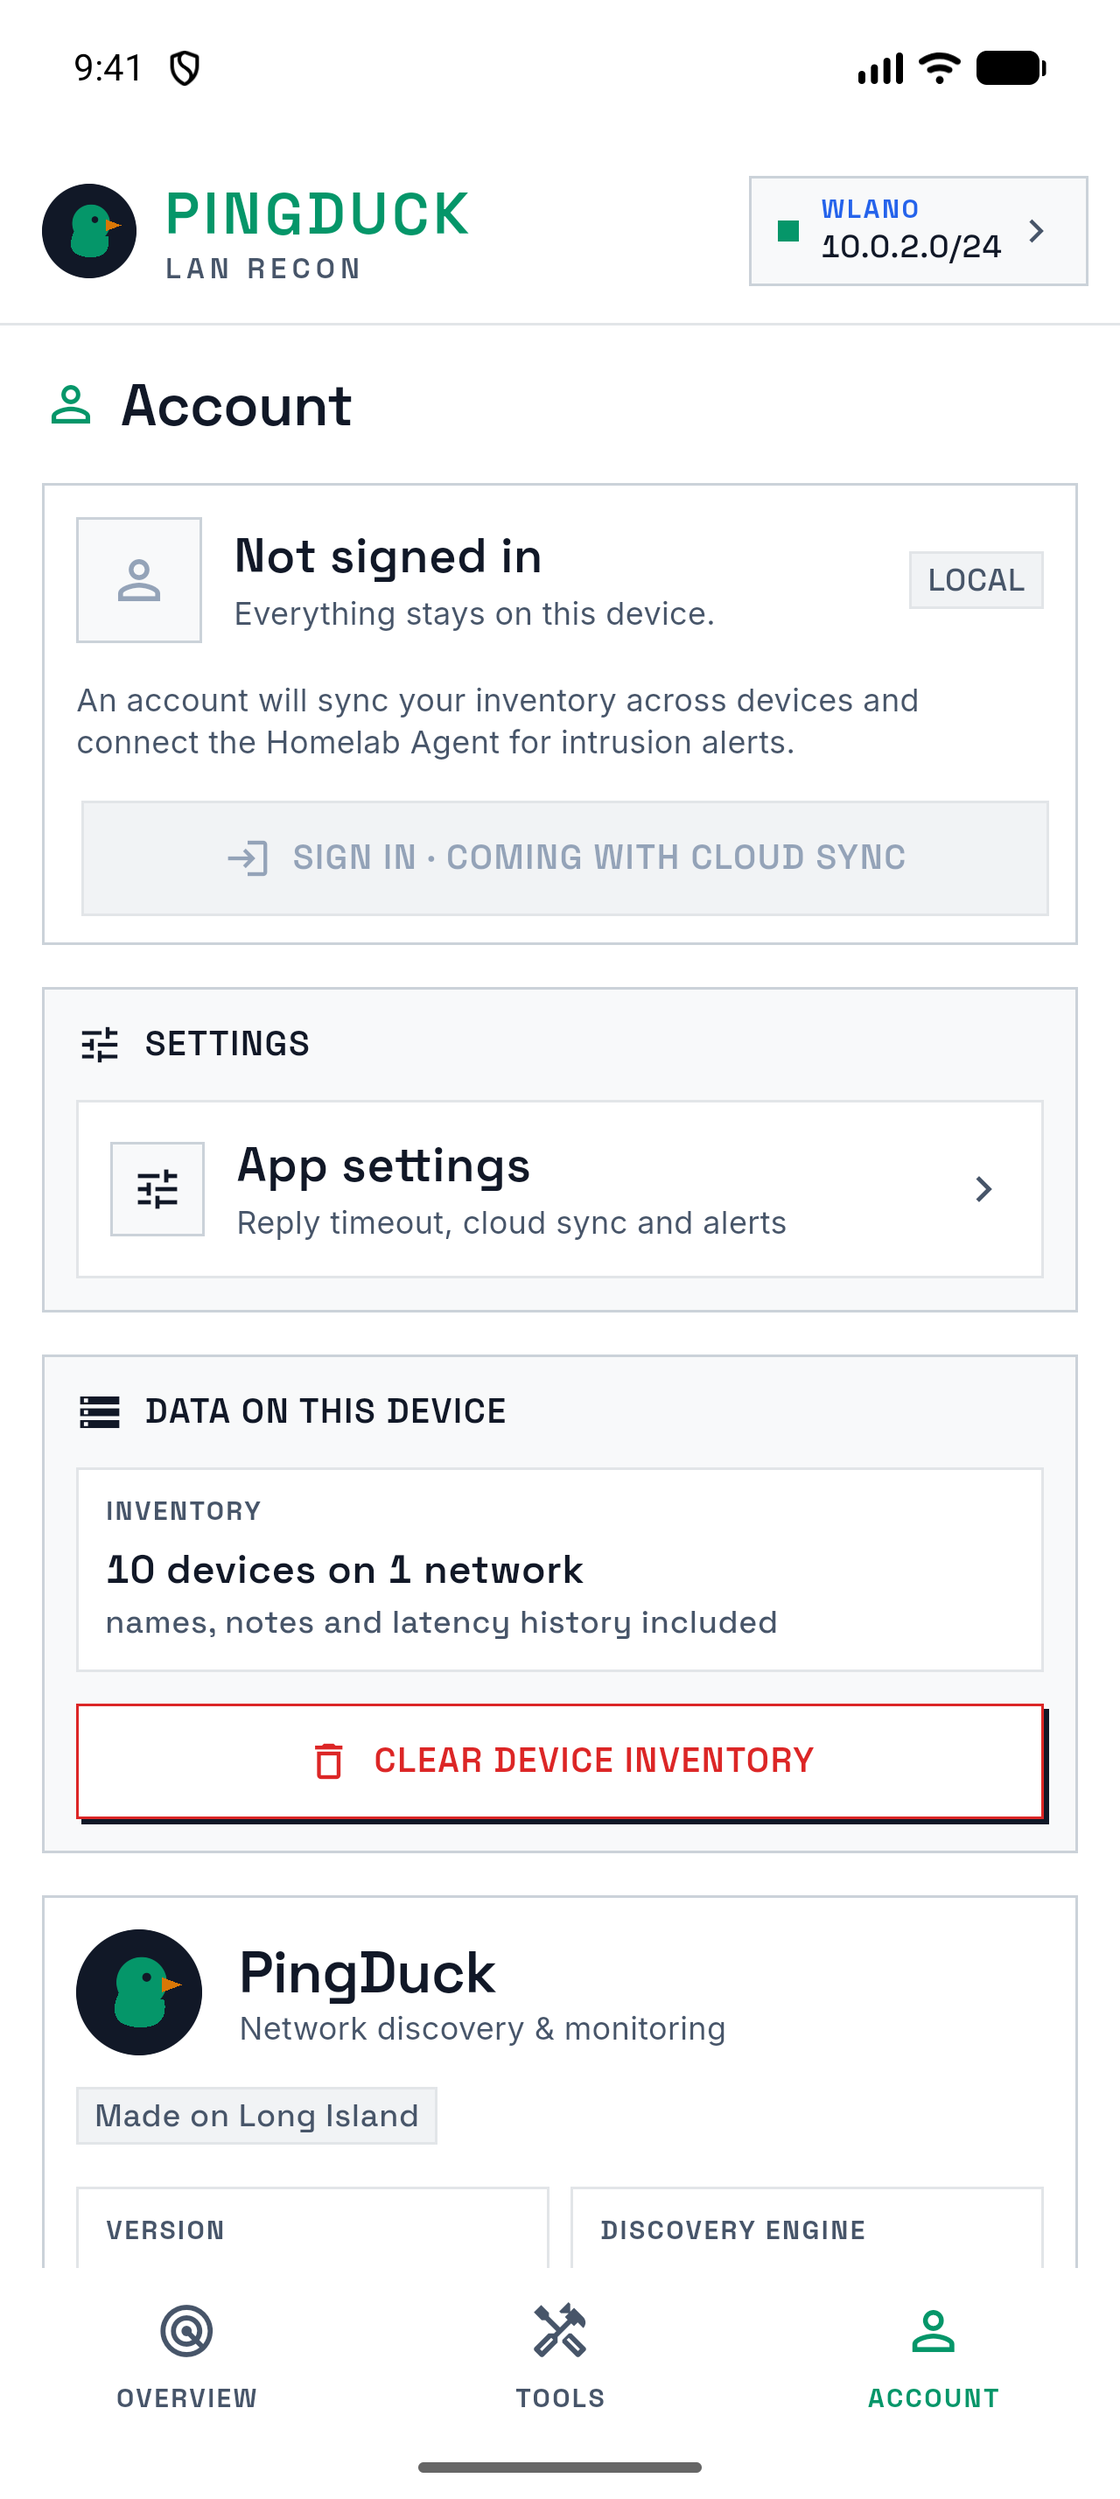
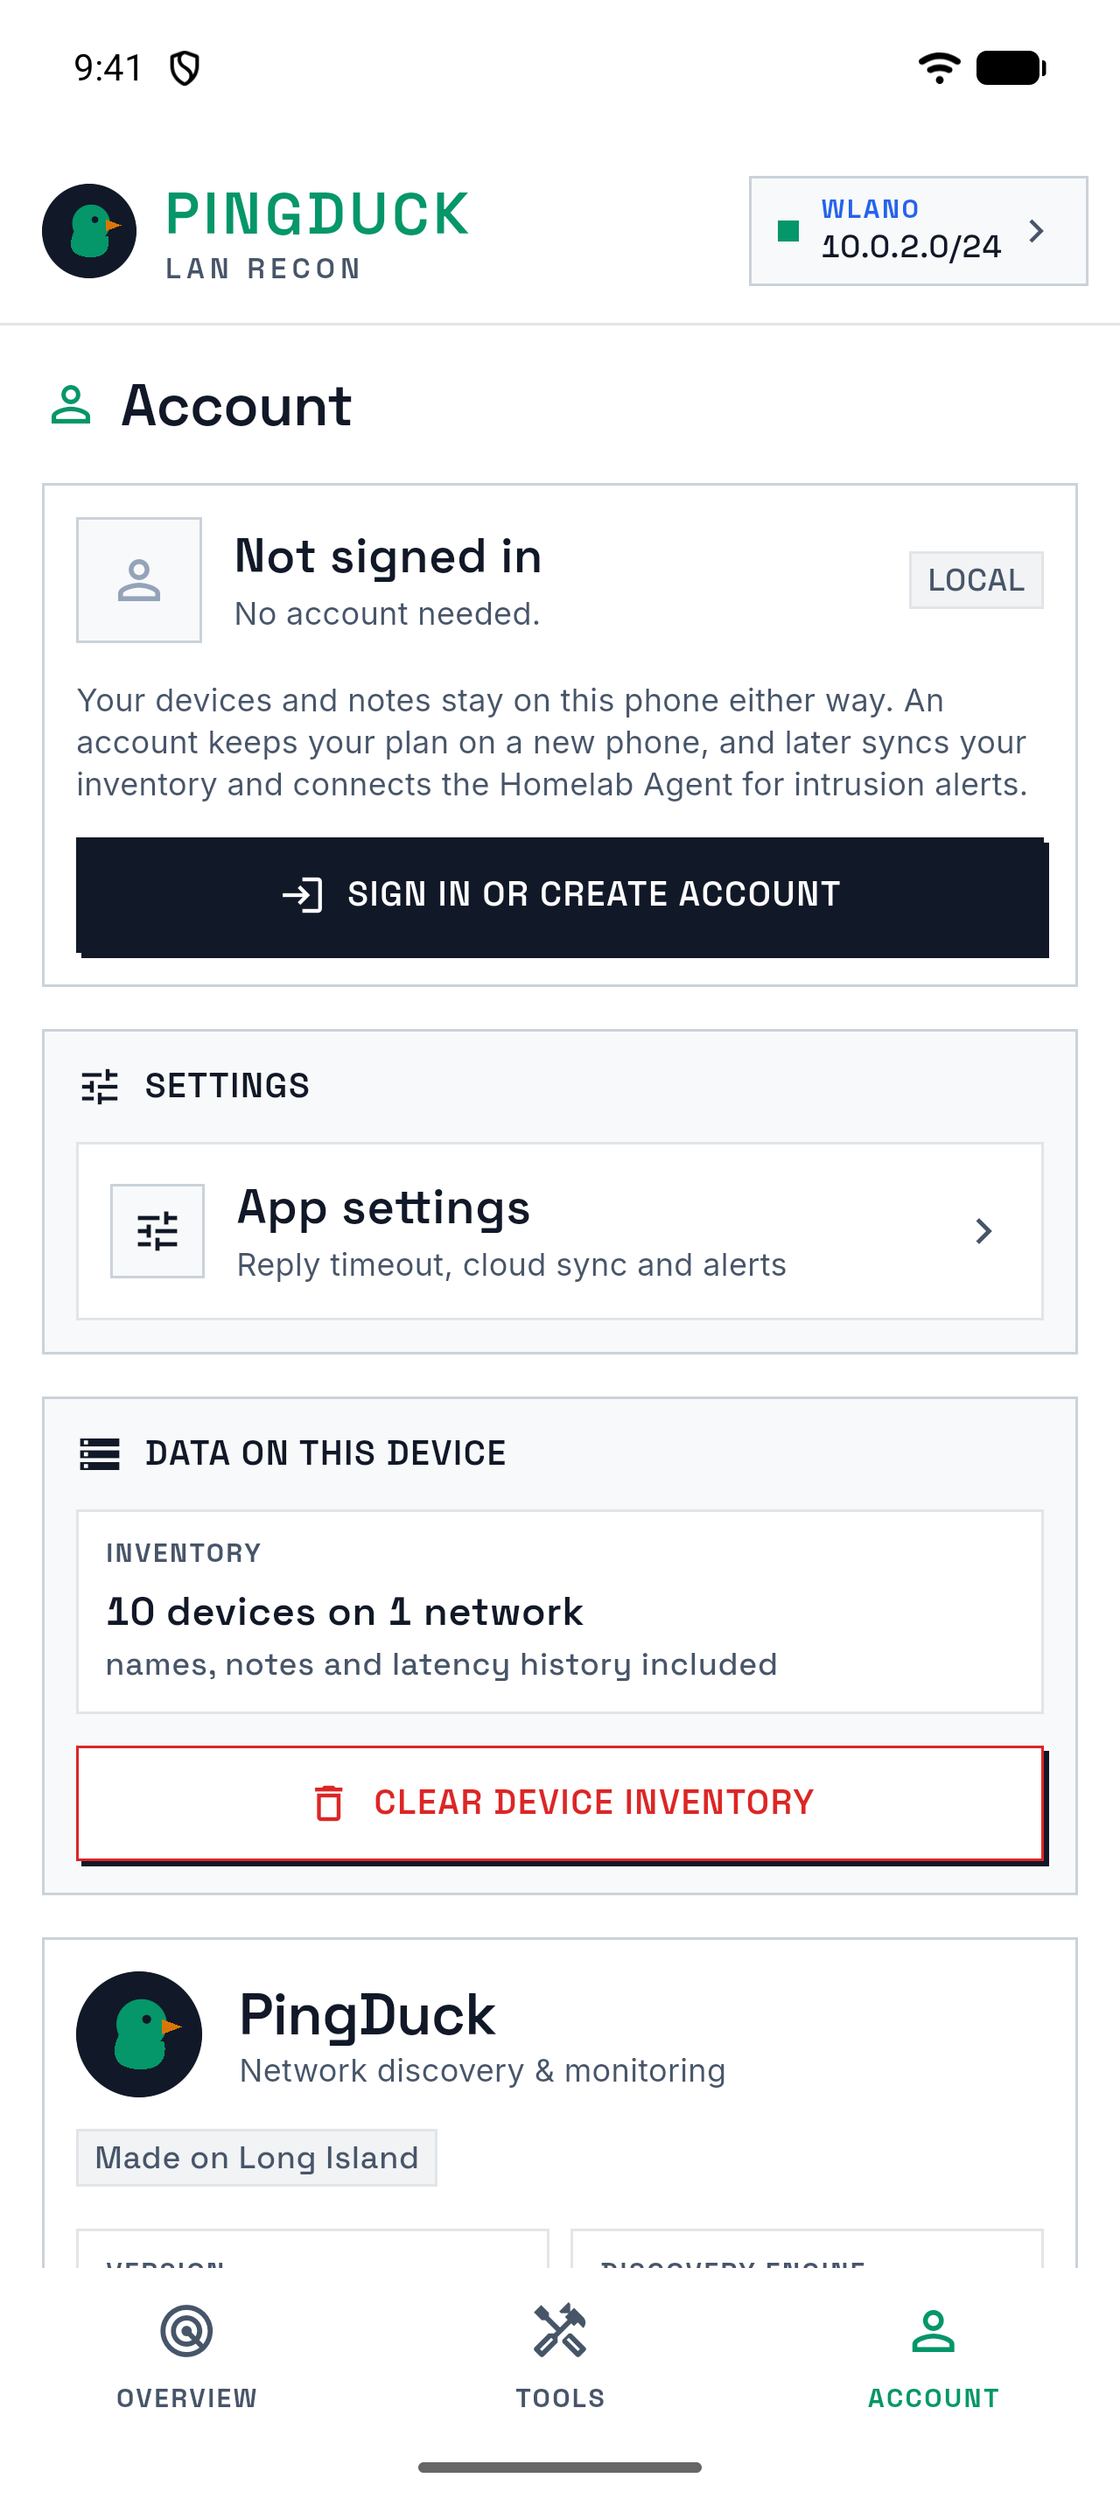
Optional accounts: update copy and privacy policy
The app now has optional email and password accounts, so drop the "no
account" claims: no sign-up is needed and the device list stays on the
phone. The privacy policy now covers the anonymous scan-count ID, the
optional email account, the providers (Supabase, Resend) and in-app
account deletion. The FAQ adds "Do I need an account?" and the free
plan's 3 scans a day. New Account tab screenshot.

diff --git a/src/app/privacy/page.tsx b/src/app/privacy/page.tsx
@@ -4,7 +4,7 @@ import { site } from "@/lib/site";
 
 export const metadata: Metadata = {
   title: "Privacy Policy",
-  description: "How the PingDuck app handles your data: no account, no analytics, everything stored on your device.",
+  description: "How the PingDuck app handles your data: no sign-up needed, no analytics, your device list stays on your phone.",
 };
 
 export default function PrivacyPage() {
@@ -16,10 +16,11 @@ export default function PrivacyPage() {
       <article className="prose-legal mx-auto max-w-3xl px-4 py-12 sm:px-6">
         <div className="mb-8 border border-live-border bg-live-fill p-5">
           <p className="!mb-0 !text-ink">
-            <strong>The short version:</strong> PingDuck does not collect, sell or share your
-            personal data. There is no account, no analytics, no advertising and no tracking.
-            Everything the app learns about your network is stored on your device, and you can
-            delete it at any time.
+            <strong>The short version:</strong> Everything the app learns about your network
+            stays on your device, and you can delete it at any time. You don&rsquo;t need an
+            account: the app uses a random anonymous ID only to count scans for the free plan.
+            If you choose to sign in, we also store your email address. There are no
+            analytics, no advertising and no tracking, and we never sell your data.
           </p>
         </div>
 
@@ -31,14 +32,67 @@ export default function PrivacyPage() {
 
         <h2>1. Information we collect</h2>
         <p>
-          <strong>We do not collect any personal information through the App.</strong> The App
-          does not require an account, does not include analytics, crash-reporting or
-          advertising SDKs, and does not send information about you or your network to us or
-          to any third party.
+          The App does not include analytics, crash-reporting or advertising SDKs. It never
+          sends your device inventory, network names, notes or scan results to us or to
+          anyone else. The only information that reaches our servers is:
+        </p>
+        <ul>
+          <li>
+            <strong>An anonymous ID.</strong> The first time you scan, the App creates a random
+            identifier on our server so the free plan&rsquo;s daily scan limit can be applied.
+            It is not linked to your name, email, phone number or advertising ID.
+          </li>
+          <li>
+            <strong>A daily scan count.</strong> Each scan you start records one count against
+            that ID for the current day (UTC). We store only the date and the number, nothing
+            about the network or devices scanned, and delete counts after about a week.
+          </li>
+          <li>
+            <strong>Your email address, if you sign in.</strong> An account is optional. If you
+            create one, we store your email address to identify your account, to confirm it
+            with a one-time code and to let you reset your password. Your password is stored
+            only as a secure hash, so we cannot read it. We do not send marketing email, and we
+            never share or sell your address.
+          </li>
+          <li>
+            <strong>Your plan.</strong> Which plan the account is on (for example Free), so the
+            App can apply its limits.
+          </li>
+          <li>
+            <strong>Standard request logs.</strong> Like any online service, our servers log
+            requests, including your IP address, the time and basic app and device information,
+            for security, abuse prevention and troubleshooting. These logs are kept for a
+            limited period.
+          </li>
+        </ul>
+        <p>
+          The App keeps you signed in with a session token stored in its private storage on
+          your device.
         </p>
 
-        <h2>2. Information stored on your device</h2>
-        <p>To work, the App keeps the following on your device only:</p>
+        <h2>2. Service providers</h2>
+        <p>
+          We use a small number of providers to run the service. They process data only on our
+          behalf and under their own security and privacy commitments:
+        </p>
+        <ul>
+          <li>
+            <strong>Supabase</strong>: database and sign-in (stores the anonymous ID, scan
+            counts, your email address and password hash if you create an account, and request
+            logs).
+          </li>
+          <li>
+            <strong>Resend</strong>: delivers account emails such as confirmation and password
+            reset codes (receives your email address and the message).
+          </li>
+        </ul>
+        <p>
+          These providers may store data in the United States or other countries. We do not
+          share your information with anyone else unless the law requires it.
+        </p>
+
+        <h2>3. Information stored on your device</h2>
+        <p>To work, the App keeps the following on your device only, whether or not you sign in:</p>
         <ul>
           <li>
             <strong>Device inventory:</strong> IP addresses, hostnames, manufacturer names,
@@ -57,14 +111,14 @@ export default function PrivacyPage() {
           </li>
         </ul>
         <p>
-          This data never leaves your device. You can delete it with <strong>Account › Clear
+          This data never leaves your device, and signing in does not upload it. You can delete it with <strong>Account › Clear
           device inventory</strong>, and uninstalling the App removes it entirely. Your
           device&rsquo;s own backup service (such as iCloud or Google backup) may include App
           data if you have enabled it; that is governed by Apple&rsquo;s or Google&rsquo;s
           policies.
         </p>
 
-        <h2>3. Permissions the App uses</h2>
+        <h2>4. Permissions the App uses</h2>
         <ul>
           <li>
             <strong>Local network access</strong> (iOS) and <strong>Wi-Fi / network state</strong>{" "}
@@ -86,61 +140,81 @@ export default function PrivacyPage() {
           </li>
         </ul>
 
-        <h2>4. Network traffic the App sends</h2>
+        <h2>5. Network traffic the App sends</h2>
         <p>
           When you scan, the App sends standard discovery traffic (ICMP ping, mDNS, SSDP,
           NetBIOS and DNS lookups, and TCP connection attempts for port scans) to devices on
           your local network. Devices on your network may log this traffic like any other.
           Manufacturer names come from a copy of the public IEEE OUI registry bundled with the
-          App, so no lookup is made over the internet.
+          App, so no lookup is made over the internet. Apart from this local traffic, the App
+          contacts our servers only for the purposes in section 1.
         </p>
 
-        <h2>5. Future optional features</h2>
+        <h2>6. Future optional features</h2>
         <p>
-          We plan optional features such as accounts, cloud sync across your devices, the
-          Homelab Agent and in-app subscriptions. These will be opt-in. Before any of them
+          We plan optional features such as cloud sync across your devices, the Homelab
+          Agent, intrusion alerts and in-app subscriptions. These will be opt-in. Before any of them
           launch we will update this policy to describe exactly what is collected, why, and
           how to delete it. Subscription payments, if offered, are processed by Apple or Google;
           we do not receive your payment card details.
         </p>
 
-        <h2>6. This website</h2>
+        <h2>7. This website</h2>
         <p>
           This website does not use cookies, analytics or advertising trackers. Our hosting
           provider may keep standard server logs (such as IP address, browser type and the page
           requested) for security and reliability, for a limited period.
         </p>
 
-        <h2>7. Children</h2>
+        <h2>8. Children</h2>
         <p>
           The App is not directed to children under 13, and we do not knowingly collect
-          personal information from anyone, including children.
+          personal information from children. If you believe a child has created an account,
+          contact us and we will delete it.
         </p>
 
-        <h2>8. Your rights</h2>
+        <h2>9. Your rights and deleting your data</h2>
         <p>
           Depending on where you live (for example under the GDPR or the California Consumer
-          Privacy Act), you may have rights to access, correct or delete personal information
-          and to opt out of its sale. Because we do not collect or sell personal information
-          through the App, there is nothing for us to access or delete, and all App data is
-          under your control on your device. You can still contact us with any request or
-          question.
+          Privacy Act), you may have rights to access, correct, delete or export your personal
+          information and to object to its use. We do not sell or share personal information.
         </p>
+        <ul>
+          <li>
+            <strong>Data on your device:</strong> delete it with <strong>Account › Clear device
+            inventory</strong>, or uninstall the App.
+          </li>
+          <li>
+            <strong>Your account:</strong> tap <strong>Account › Delete account</strong> in
+            the App. This immediately and permanently deletes the account and everything our
+            server holds for it, including your email address and scan counts. Signing out does
+            not delete your account. If you no longer have the App, email{" "}
+            <a href={`mailto:${site.email}`}>{site.email}</a> from the address on the account and
+            we will delete it within 30 days.
+          </li>
+          <li>
+            <strong>Anonymous ID:</strong> it is not linked to you, but you can still ask us to
+            delete it.
+          </li>
+        </ul>
+        <p>You can contact us with any other request or question.</p>
 
-        <h2>9. Security</h2>
+        <h2>10. Security</h2>
         <p>
           App data is stored in the App&rsquo;s private storage, protected by your
           device&rsquo;s operating system. Keep your device locked and up to date to protect it.
+          Data sent to our servers is encrypted in transit, and access controls let each account
+          read only its own records.
         </p>
 
-        <h2>10. Changes to this policy</h2>
+        <h2>11. Changes to this policy</h2>
         <p>
           We will post any changes on this page and update the date above. If a change
           materially affects how your data is handled, we will also tell you in the App before
           it takes effect.
         </p>
 
-        <h2>11. Contact</h2>
+        <h2>12. Contact</h2>
         <p>
           Questions about privacy? Email <a href={`mailto:${site.email}`}>{site.email}</a>.
         </p>

diff --git a/src/app/faq/page.tsx b/src/app/faq/page.tsx
@@ -27,10 +27,25 @@ const groups: { title: string; items: { q: string; a: React.ReactNode }[] }[] = 
         q: "Is PingDuck free?",
         a: (
           <p>
-            Yes. Scanning, the radar, the device list and Node Inspect are free, with no account
-            needed. We plan an optional paid plan later for extras that cost us money to run,
+            Yes. Scanning, the radar, the device list and Node Inspect are free, and you
+            don&rsquo;t need an account to use them. The free plan includes 3 scans a day that
+            you start yourself. The automatic scan when you open the app or reconnect to Wi-Fi
+            doesn&rsquo;t count, and runs at most once every 30 minutes. Your scans reset at
+            midnight UTC. We plan an optional paid plan later for unlimited scans and extras that cost us money to run,
             such as the Homelab Agent, cloud sync and intrusion alerts. If we add one, the price
             and terms will be shown clearly in the app before you subscribe.
+          </p>
+        ),
+      },
+      {
+        q: "Do I need an account?",
+        a: (
+          <p>
+            No. PingDuck works without one. If you want an account, open the Account tab and
+            create one with your email and a password. We email you a code once to confirm the
+            address. An account will also be how you connect cloud sync and the Homelab Agent
+            when they arrive. Google sign-in, and Sign in with Apple on iPhone, are coming
+            soon. Your device list stays on your phone either way.
           </p>
         ),
       },
@@ -141,9 +156,11 @@ const groups: { title: string; items: { q: string; a: React.ReactNode }[] }[] = 
         q: "Does PingDuck send my data anywhere?",
         a: (
           <p>
-            No. There is no account, no analytics and no ads, and your device list is stored
-            only on your phone. The app&rsquo;s traffic goes to devices on your own network. See
-            the <Link href="/privacy">Privacy Policy</Link> for details.
+            Your device list, notes and network names stay on your phone. To apply the free
+            plan&rsquo;s scan limit, the app counts scans against a random anonymous ID on our
+            server, with no device or network details attached. If you sign in, we also store
+            your email address. There are no analytics and no ads. See the{" "}
+            <Link href="/privacy">Privacy Policy</Link> for details.
           </p>
         ),
       },
@@ -152,7 +169,9 @@ const groups: { title: string; items: { q: string; a: React.ReactNode }[] }[] = 
         a: (
           <p>
             Open the Account tab and tap <strong>Clear device inventory</strong>. Uninstalling
-            the app also deletes everything it stored.
+            the app also deletes everything it stored on your phone. To delete your account
+            and everything stored with it on our server, tap <strong>Delete account</strong>{" "}
+            on the Account tab.
           </p>
         ),
       },

diff --git a/src/app/page.tsx b/src/app/page.tsx
@@ -29,9 +29,9 @@ const features = [
   },
   {
     eyebrow: "03 · LOCAL FIRST",
-    title: "No account. Nothing leaves your phone.",
-    body: "Your device inventory lives on your phone and nowhere else. There is no sign-up, no analytics and no ads. Clear it any time from the Account tab.",
-    points: ["No sign-in required", "No trackers or analytics", "Vendor database is bundled for offline use"],
+    title: "No sign-up needed. Your devices stay on your phone.",
+    body: "Scanning works the moment you open the app, no sign-up needed. Your device inventory lives on your phone and nowhere else, with no analytics and no ads. Want an account? Create one with your email and a password. Clear your data any time from the Account tab.",
+    points: ["Account optional, email and password", "No trackers or analytics", "Vendor database is bundled for offline use"],
     src: "/screens/account.png",
     alt: "PingDuck Account screen showing all data stored on this device",
   },
@@ -71,7 +71,7 @@ export default function Home() {
               <StoreBadges />
             </div>
             <p className="mt-6 text-sm text-ink-muted">
-              Free to scan. No account. Your data stays on your phone.
+              Free to scan. No sign-up needed. Your device list stays on your phone.
             </p>
           </div>
 

diff --git a/src/lib/site.ts b/src/lib/site.ts
@@ -4,7 +4,7 @@ export const site = {
   name: "PingDuck",
   tagline: "See every device on your network.",
   description:
-    "PingDuck finds every device on your Wi-Fi in seconds: names, vendors, latency and open ports. Everything stays on your phone.",
+    "PingDuck finds every device on your Wi-Fi in seconds: names, vendors, latency and open ports. Your device list stays on your phone.",
   url: "https://pingduck.app",
   company: "Big Duck Networks",
   parentCompany: "Webcap Media Group",
@@ -13,7 +13,7 @@ export const site = {
   // Store listings; null shows a "coming soon" badge instead of a link.
   appStoreUrl: null as string | null,
   playStoreUrl: null as string | null,
-  legalUpdated: "October 6, 2026",
+  legalUpdated: "October 7, 2026",
   year: 2026,
 };
 

diff --git a/README.md b/README.md
@@ -121,7 +121,8 @@ src/
 - [x] Legal entity: *Big Duck Networks*, owned by Webcap Media Group (`company`, `parentCompany`).
 - [x] Domain `pingduck.app`, support `support@pingduck.app`.
 - [ ] Have counsel review `/privacy` and `/terms`.
-- [ ] Update the Privacy Policy **before** accounts, cloud sync, the Homelab Agent, or subscriptions ship. It currently describes a fully local app.
+- [x] Privacy Policy covers the anonymous scan-count ID and optional email and password accounts (Supabase, Resend).
+- [ ] Update the Privacy Policy **before** cloud sync, the Homelab Agent, alerts or subscriptions ship.
 - [ ] Add store URLs once the listings are live.
 
 ---
